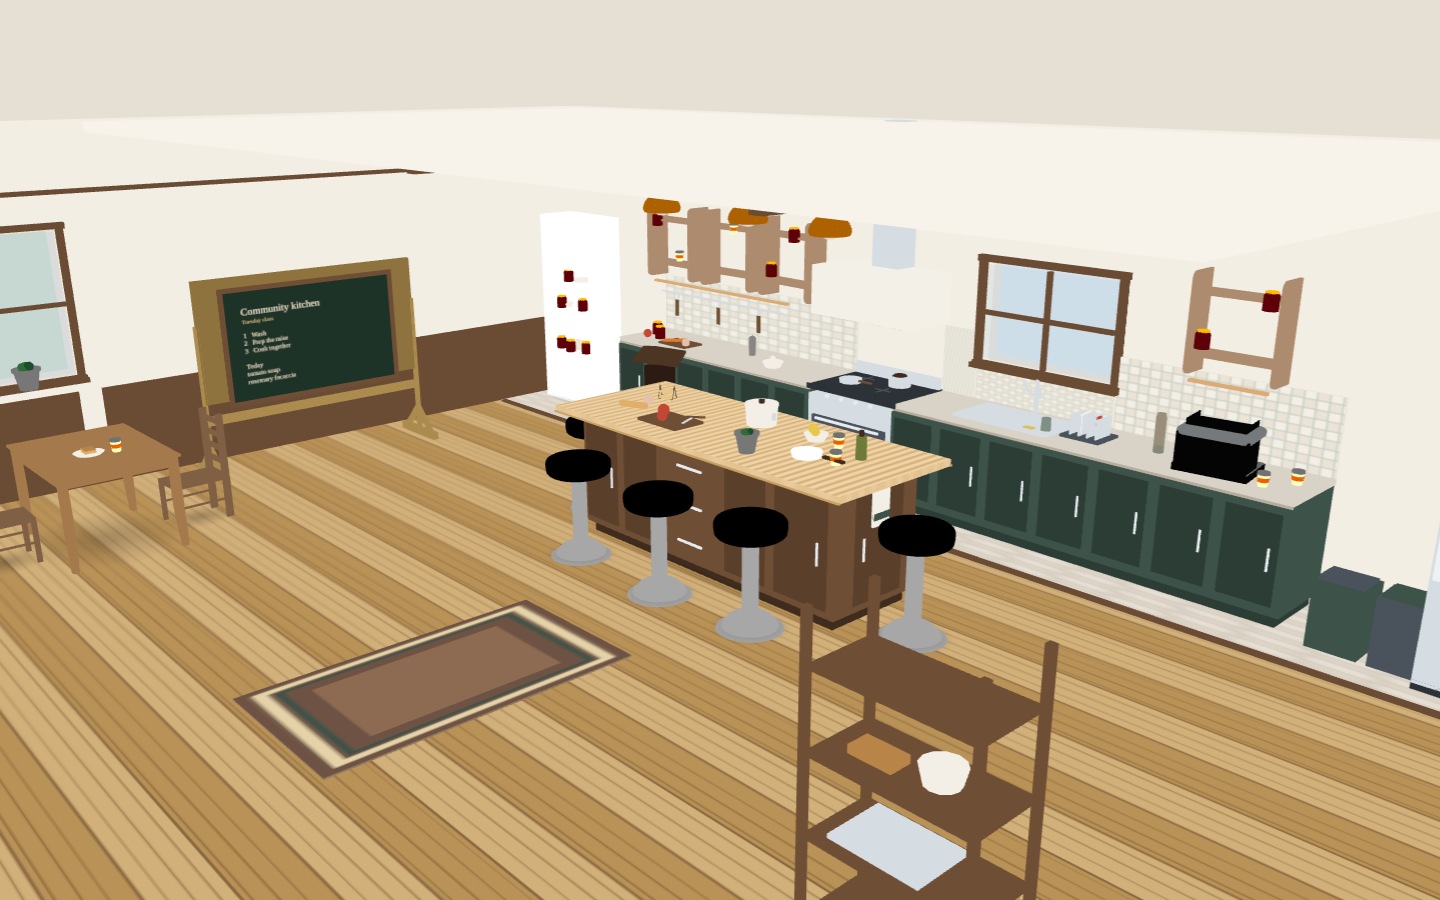
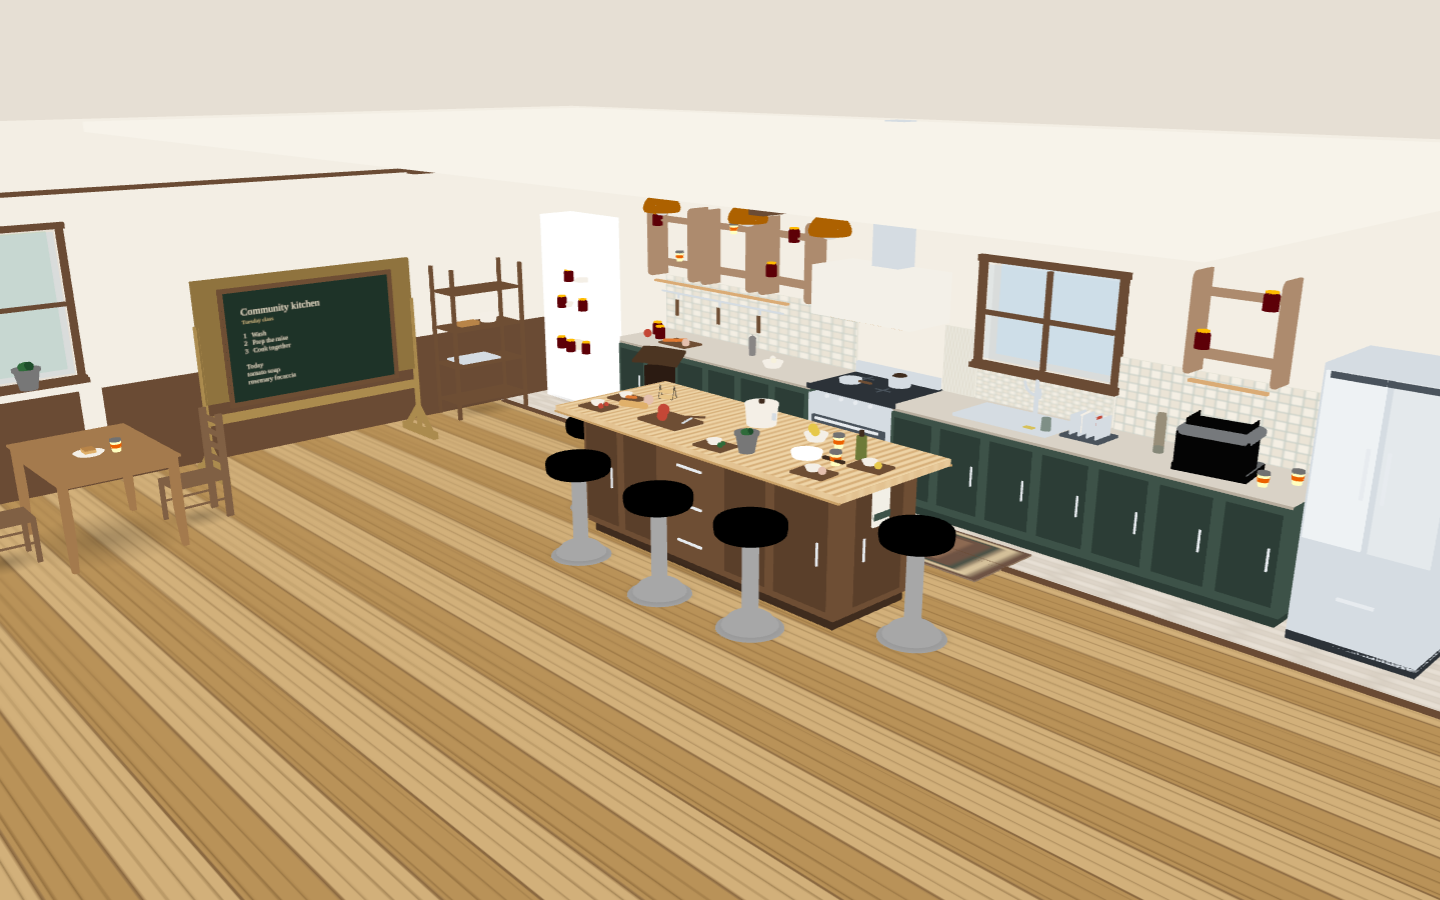
Place the rack, rug, and fridge, and set a station at each stool.
Move the baker's rack to the left wall, the work mat in front of the range and sink, and the fridge against the end of the counter. Add a board and mixing bowl at each island stool.

diff --git a/experiments/sprint-20261110/community-kitchen/kitchen.js b/experiments/sprint-20261110/community-kitchen/kitchen.js
@@ -294,21 +294,22 @@ function makeProcedural(layout) {
   buildCounter(g, counter, z, { sage, sageIn, stone, stoneEdge, splash, steel, steelDark, iron, handle, flame, water, cream, towel, towelBand });
   buildIsland(g, island, { oak, oakIn, oakDark, block, blockEdge, steel, handle, cream, soup, towel, towelBand });
   buildFridge(g, z.fridge, { steel, steelDark, handle, iron });
-  buildRack(g, 3.62, 1.15, { oak, steel, crust, cream });
-  buildBins(g, 3.82, -3.18, { sage, steelDark, handle });
+  // Baker's rack against the left wall, clear of the default camera.
+  buildRack(g, -4.96, -2.35, { oak, steel, crust, cream }, Math.PI / 2);
+  buildBins(g, 4.62, -3.22, { sage, steelDark, handle });
   buildLesson(g, layout, chalk);
   buildProps(g, layout, { tomato, leaf, lemon, onion, carrot, bread, crust, oil, cream, soup, steel, oak, oakDark });
   buildLights(g, layout, bulbMat, stripMat, H);
   buildHerb(g, layout, leaf);
 
-  // Circulation rug — stops short of the stools and the tasting table.
-  box(g, 1.15, 0.012, 2.05, rugMat, 0.08, 0.02, 1.2);
+  // Work mat in the stance in front of the range and sink.
+  box(g, 2.35, 0.012, 0.72, rugMat, 0.26, 0.028, -2.7);
 
   contactDisc(g, island.x, island.z, island.w * 0.46, island.d * 0.48, 0.45);
   contactDisc(g, z.fridge.x, z.fridge.z, 0.48, 0.42, 0.4);
   contactDisc(g, z.tasting.x, z.tasting.z, 0.7, 0.55, 0.35);
   contactDisc(g, -4.58, -3.42, 0.5, 0.32, 0.35);
-  contactDisc(g, 3.62, 1.15, 0.5, 0.32, 0.3);
+  contactDisc(g, -4.96, -2.35, 0.32, 0.5, 0.3);
   for (const inst of layout.instances) {
     if (inst.kind === 'bar_stool' || inst.kind === 'dining_chair') {
       contactDisc(g, inst.position[0], inst.position[2], 0.28, 0.28, 0.4);
@@ -528,24 +529,28 @@ function buildFridge(g, f, m) {
   box(g, f.w - 0.1, 0.04, 0.01, m.steelDark, f.x, f.h - 0.08, f.z + f.d / 2 + 0.02);
 }
 
-function buildRack(g, x, z, m) {
+function buildRack(g, x, z, m, rotY = 0) {
+  const rack = new THREE.Group();
   const w = 0.82;
   const d = 0.4;
   const h = 1.58;
   for (const dx of [-w / 2, w / 2]) {
     for (const dz of [-d / 2, d / 2]) {
-      box(g, 0.035, h, 0.035, m.oak, x + dx, h / 2, z + dz);
+      box(rack, 0.035, h, 0.035, m.oak, dx, h / 2, dz);
     }
   }
   for (let i = 0; i < 4; i++) {
     const y = 0.18 + i * 0.38;
-    box(g, w, 0.02, d, m.oak, x, y, z);
-    if (i === 1) box(g, 0.46, 0.02, 0.32, m.steel, x - 0.08, y + 0.03, z);
+    box(rack, w, 0.02, d, m.oak, 0, y, 0);
+    if (i === 1) box(rack, 0.46, 0.02, 0.32, m.steel, -0.08, y + 0.03, 0);
     if (i === 2) {
-      cyl(g, 0.1, 0.08, 0.08, m.cream, x + 0.12, y + 0.06, z, 12);
-      box(g, 0.22, 0.04, 0.12, m.crust, x - 0.16, y + 0.04, z + 0.04);
+      cyl(rack, 0.1, 0.08, 0.08, m.cream, 0.12, y + 0.06, 0, 12);
+      box(rack, 0.22, 0.04, 0.12, m.crust, -0.16, y + 0.04, 0.04);
     }
   }
+  rack.position.set(x, 0, z);
+  rack.rotation.y = rotY;
+  g.add(rack);
 }
 
 function buildBins(g, x, z, m) {
@@ -630,6 +635,16 @@ function buildProps(g, layout, m) {
   // Salt cellar.
   cyl(g, 0.03, 0.034, 0.05, m.cream, isl.x + 0.28, yI + 0.03, isl.z + 0.18, 10);
 
+  // One board and mixing bowl per stool, inset from that stool's edge.
+  const stations = [
+    { x: isl.x - 1.18, z: isl.z + 0.36, accent: 'tomato' },
+    { x: isl.x + 0.18, z: isl.z + 0.4, accent: 'leaf' },
+    { x: isl.x + 1.05, z: isl.z + 0.34, accent: 'onion' },
+    { x: isl.x - 1.22, z: isl.z + 0.05, accent: 'carrot' },
+    { x: isl.x + 1.22, z: isl.z - 0.02, accent: 'lemon' },
+  ];
+  for (const st of stations) stoolStation(g, st.x, yI, st.z, st.accent, m);
+
   // Prep counter, left of the range.
   box(g, 0.38, 0.018, 0.24, m.oak, -2.85, yC + 0.01, -3.32);
   put(g, new THREE.CapsuleGeometry(0.018, 0.12, 2, 6), m.carrot, -2.95, yC + 0.03, -3.28, [0, 0.8, Math.PI / 2]);
@@ -673,6 +688,24 @@ function buildProps(g, layout, m) {
 
 function bowl(g, x, y, z, r, mat) {
   cyl(g, r, r * 0.7, r * 0.55, mat, x, y + r * 0.28, z, 14);
+}
+
+function stoolStation(g, x, y, z, accent, m) {
+  box(g, 0.26, 0.016, 0.18, m.oak, x, y + 0.008, z, 0.08);
+  bowl(g, x - 0.02, y + 0.016, z - 0.01, 0.055, m.cream);
+  if (accent === 'tomato') {
+    put(g, new THREE.SphereGeometry(0.022, 8, 6), m.tomato, x + 0.07, y + 0.03, z + 0.03);
+    put(g, new THREE.SphereGeometry(0.018, 8, 6), m.tomato, x + 0.05, y + 0.028, z - 0.04);
+  } else if (accent === 'leaf') {
+    put(g, new THREE.SphereGeometry(0.02, 8, 6), m.leaf, x + 0.07, y + 0.03, z + 0.02);
+    put(g, new THREE.SphereGeometry(0.016, 8, 6), m.leaf, x + 0.05, y + 0.028, z - 0.03);
+  } else if (accent === 'onion') {
+    put(g, new THREE.SphereGeometry(0.028, 8, 6), m.onion, x + 0.07, y + 0.036, z);
+  } else if (accent === 'carrot') {
+    put(g, new THREE.CapsuleGeometry(0.012, 0.07, 2, 6), m.carrot, x + 0.06, y + 0.03, z, [0, 0.6, Math.PI / 2]);
+  } else {
+    put(g, new THREE.SphereGeometry(0.026, 8, 6), m.lemon, x + 0.07, y + 0.034, z + 0.01);
+  }
 }
 
 function buildLights(g, layout, bulbMat, stripMat) {
